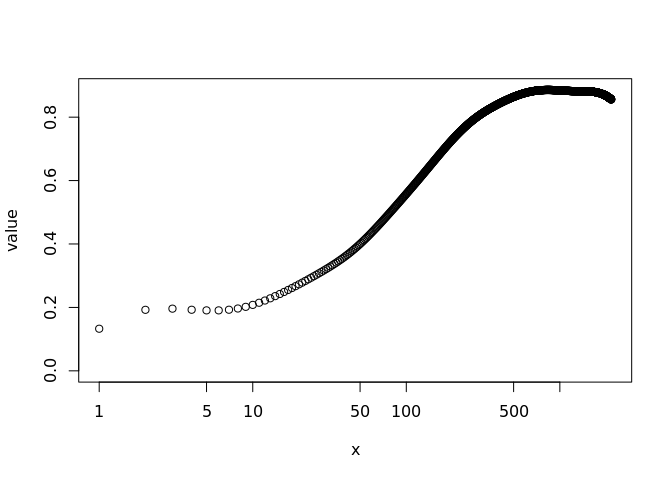
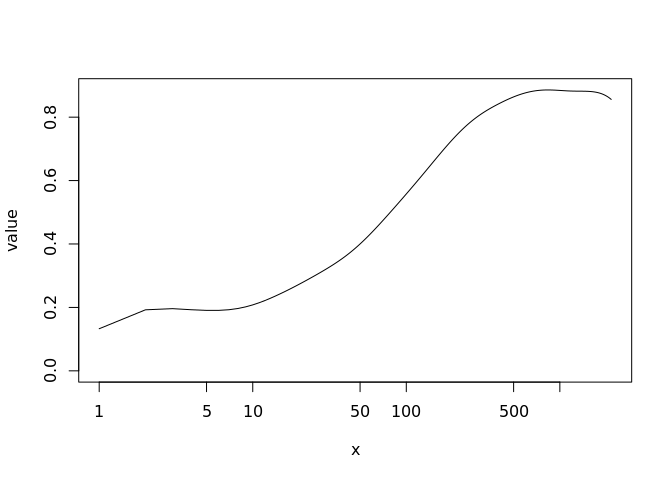
readme

Changed region(s): [[0.5625, 0.1562, 0.9375, 0.4688], [0.1875, 0.4688, 0.5625, 0.6562], [0.125, 0.6562, 0.1875, 0.6875]]

diff --git a/README.md b/README.md
@@ -74,7 +74,7 @@ resp <- rec$get_response_data(type = "dt")
 
 # barometric response function
 plot(value~x, data = resp[term == "distributed_lag_interpolated" & variable == "cumulative"], 
-     log = "x")
+     type = "l", log = "x")
 ```
 
     Warning in xy.coords(x, y, xlabel, ylabel, log): 1 x value <= 0 omitted from
@@ -93,7 +93,7 @@ plot(wl~datetime, pred, type = "l")
 points(wl_step_distributed_lag + 
        wl_step_spline_b + 
        wl_step_lead_lag + 
-       wl_step_intercept~datetime, pred, type = 'l', col = 'red')
+       wl_step_intercept~datetime, pred, type = "l", col = "red")
 ```
 
 ![](README.markdown_github_files/figure-markdown_github/unnamed-chunk-1-2.png)
